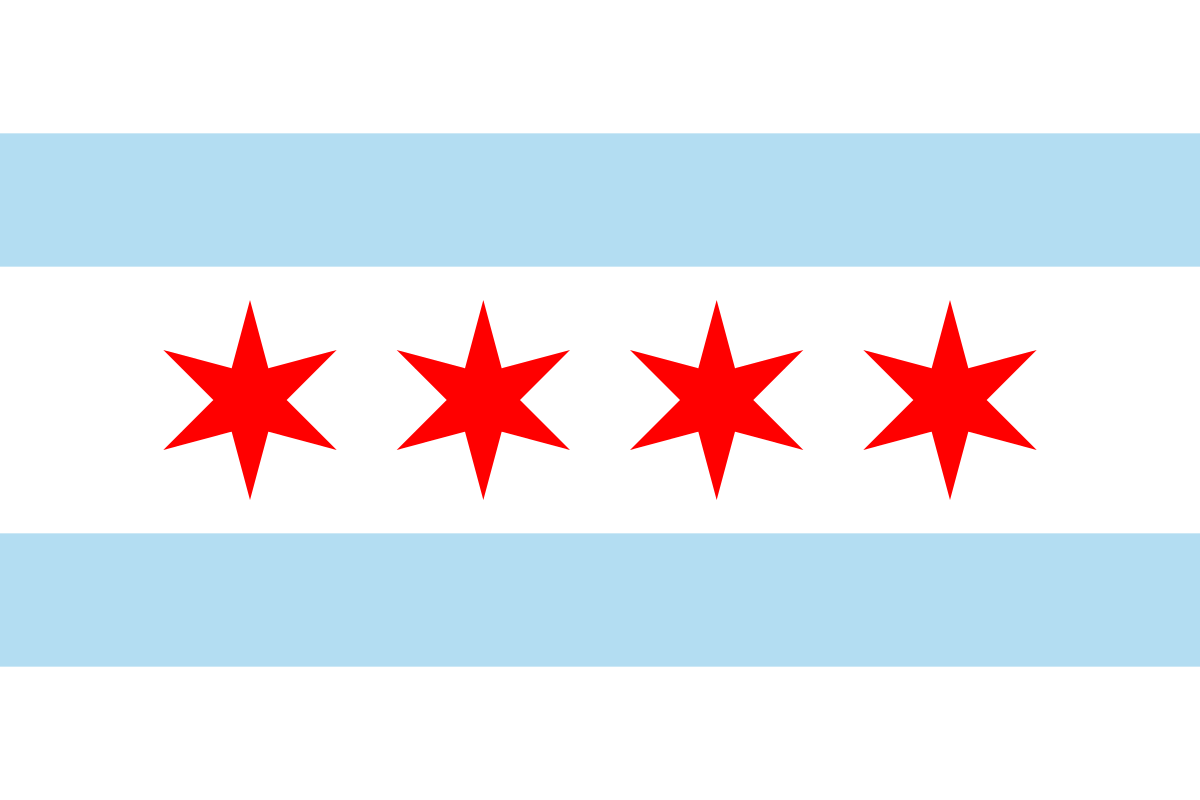
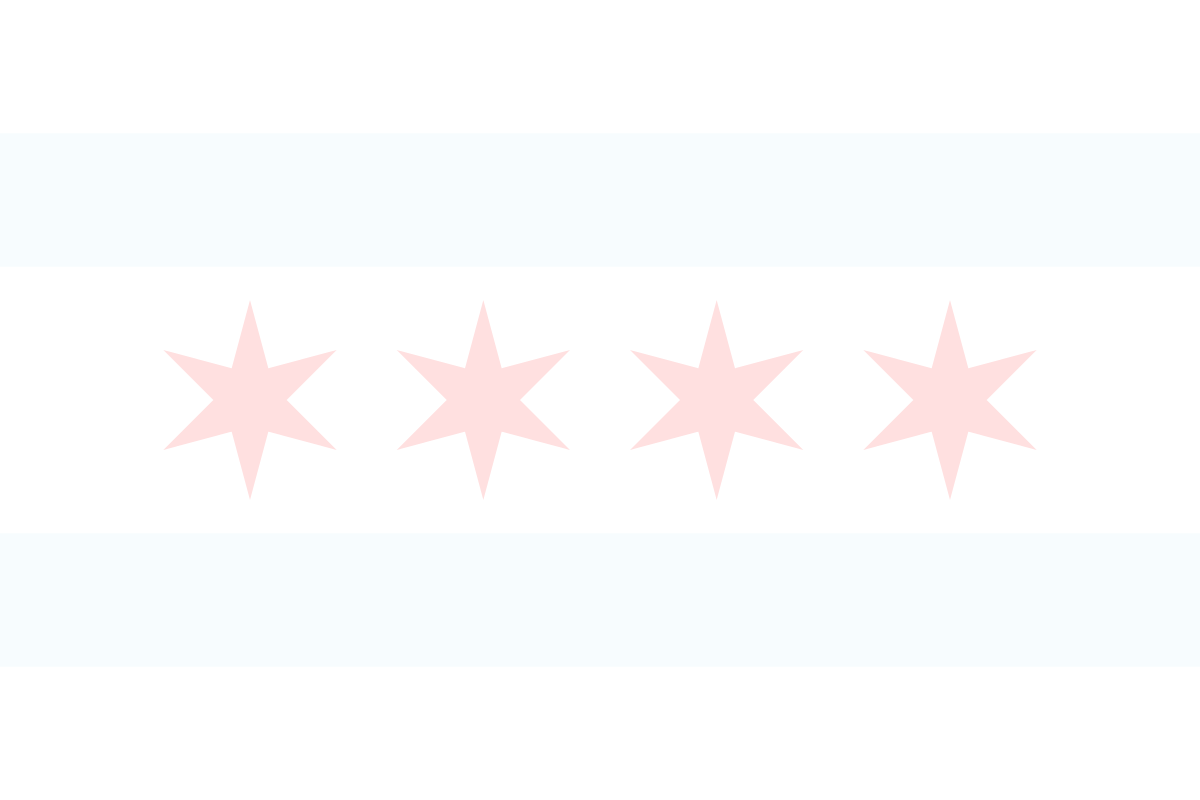
javascript

diff --git a/index.html b/index.html
@@ -9,26 +9,47 @@
 		  <link rel="stylesheet" type="text/css" href="assets/css/reset.css">
 		  	<link rel="stylesheet" type="text/css" href="assets/css/style.css">
 			<link rel="stylesheet" href="https://maxcdn.bootstrapcdn.com/bootstrap/3.3.7/css/bootstrap.min.css" integrity="sha384-BVYiiSIFeK1dGmJRAkycuHAHRg32OmUcww7on3RYdg4Va+PmSTsz/K68vbdEjh4u" crossorigin="anonymous">
-			<script type="text/javascript" src="assets/javascript/game.js"></script>
+			<link rel="stylesheet" type="text/css" href="assets/css/style.css">
 			<link href="https://fonts.googleapis.com/css?family=Bungee+Shade" rel="stylesheet">
 		  	<meta name="viewport" content="width=device-width, initial-scale=1.0">
+
 			
 </head>
 <body>
-	<div class="container">
+	<div class="container"> 
 						<div class="row">
 									<div class="col-md-12 header">HANGMAN - Chicago Streets</div></div>
 						<div class="row">			
-									<div class="col-md-4 header"><img class="flag" src="./assets/images/flag.png" alt="flag" height="50%"" width="50%" /></div>
-									<div class="col-md-4 header"><img class="flag" src="./assets/images/flag.png" alt="flag" height="50%"" width="50%" /></div>
-									<div class="col-md-4 header"><img class="flag" src="./assets/images/flag.png" alt="flag" height="50%"" width="50%" /></div>
-									</div>
+									<div class="col-md-12 anyKey">Press any key to get Started</div></div>
+
+						<!--Section 
+						<div class="row">	
+										
+								<div class="startOver">	
+									<div class="col-md-12 btn-primary">Start Game Over</div></div></div> -->	
 
 
+						<div class="row">
+								<div class="game">
+
+								<!--Section for number of guesses remaining and letters guessed-->
+									<div class="col-md-4"></div>
+
+								<!--Section for current word and up top how many games you won and how many lives left- below that if you win or lose-->	
+									<div class="col-md-4"><div id="blanks"></div> </div></div>
+
+								<!--hangman logo and street signs when chosen the correct word  -->	
+									<div class="col-md-4"></div>
+
+
+								</div>	
+
+						</div>			
 
 
 
 
 	</div>
+		  	<script type="text/javascript" src="assets/javascript/game.js"></script>	
 </body>
 </html>

diff --git a/assets/javascript/game.js b/assets/javascript/game.js
@@ -1,0 +1,55 @@
+
+
+//These are the street names for the game
+var words = ['ashland', 'addison', 'clark', 'lincoln', 'california', 'foster', 'roscoe'];
+
+//Alphabet 
+var alphabet = ['a', 'b', 'c', 'd', 'e', 'f', 'g', 'h',
+        'i', 'j', 'k', 'l', 'm', 'n', 'o', 'p', 'q', 'r', 's',
+        't', 'u', 'v', 'w', 'x', 'y', 'z'];
+
+
+//This choose word from list 
+var word = words[Math.floor(Math.random() * words.length)];
+
+
+//Empty array called answerArray and fill it with underscores (_) to match the number of letters in the word.
+var answerArray = [];
+	for (var i = 0; i < word.length; i++) {
+    answerArray[i] = "_";
+  }
+
+//Length of the secret word.
+var remainingLetters = word.length;
+
+//Blanks 
+var blanks = answerArray.join(" ");
+document.getElementById("blanks").innerHTML=blanks;
+
+
+//when user types letter it looks up to see if its the chosen word 
+
+
+function guessLetter(){
+
+
+}
+
+
+
+
+
+
+//when user types letter it looks up to see if its the chosen word 
+
+
+//if it is in the word the letter pops up in the hidded word - if not the user loses a life and the letter is checked off the list 
+
+//if the user runs out of 5 lives, they lose 
+
+//if user guesses the word with anuy lives left they win 
+
+//if user gets up to 5 wins they win it all 
+
+//press a key to play again and start over 
+

diff --git a/assets/css/style.css b/assets/css/style.css
@@ -1,6 +1,48 @@
 .header { 
 	text-align: center;
 	font-family: 'Bungee Shade', cursive;
-	font-size: 40px; 
+	font-size: 50px; 
 	color: #FF0000;
  }
+
+ 
+body {
+	background-position: top;
+	background-image: url(../images/flag.png);
+
+}
+
+
+ .anyKey { 
+ 	text-align: center;
+	padding-top: 50px;
+	font-family: 'Bungee Shade', cursive;
+	color: #87CAEB;
+	font-size: 30px;
+	text-decoration: underline;
+  } 
+
+.game { 
+	border-width: 1px; 
+	border-style: solid;
+	border-color:  #87CAEB;
+	height: 500px;
+ }
+
+.startOver { 
+	text-align: center;
+	font-family: 'Bungee Shade', cursive;
+	font-size: 25px; 
+
+ }
+ .btn-primary { 
+	background-color: #87CAEB;
+  }
+
+#blanks { 
+	text-align: center;
+	font-size: 30px;
+	padding-top: 200px; 
+
+ }
+
